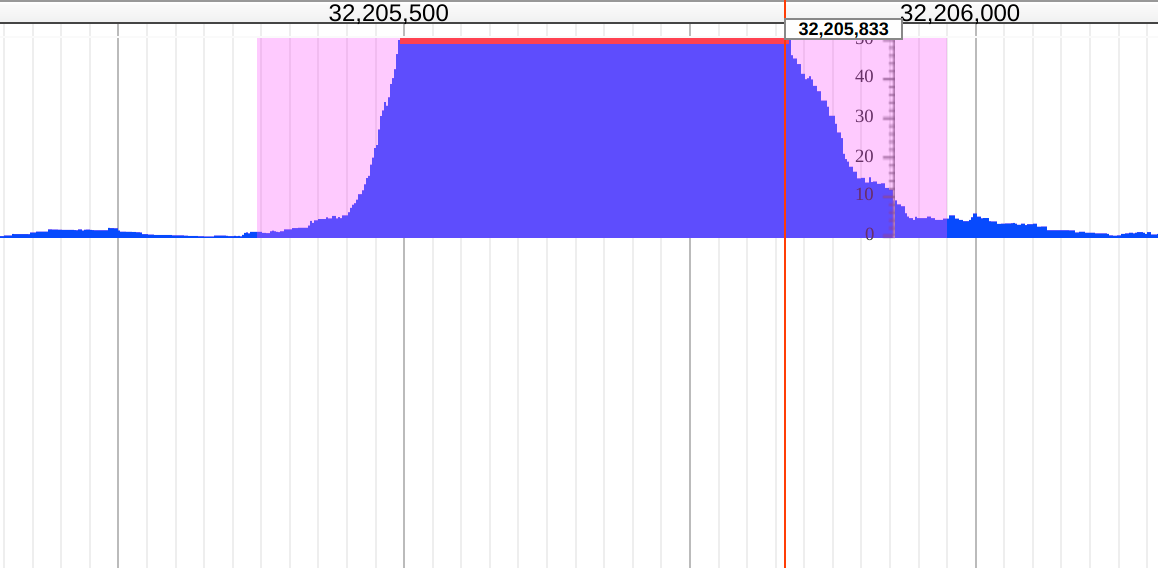
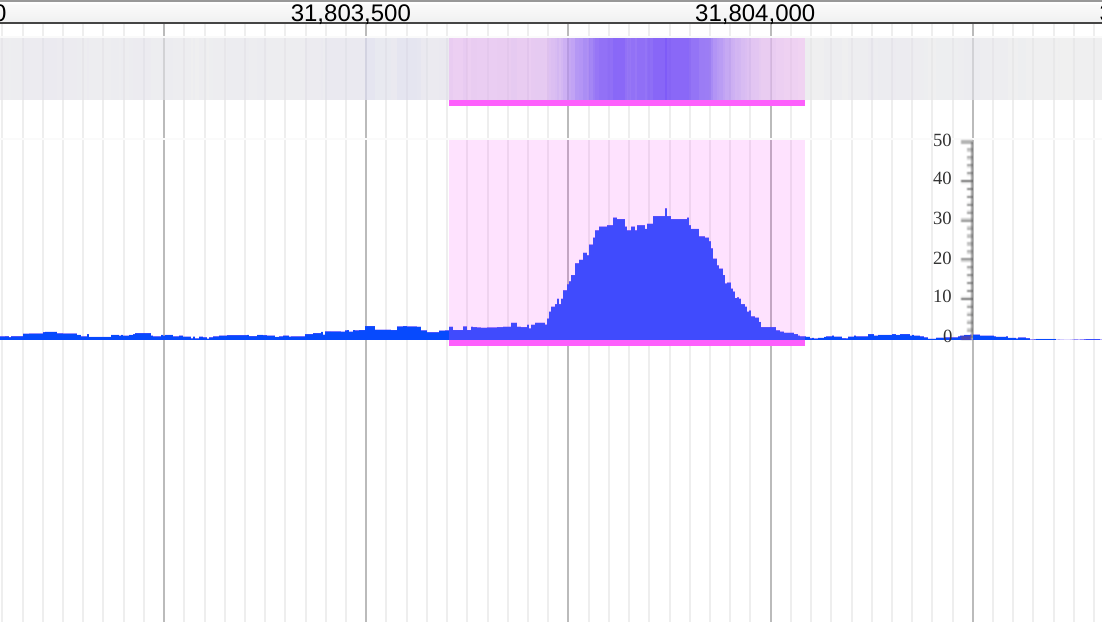
Add indicator

Changed region(s): [[0.0, 0.0, 1.0, 0.5687], [0.0309, 0.0898, 0.0617, 0.1496], [0.9873, 0.5387, 1.0, 0.5687]]

diff --git a/js/View/Track/Base.js b/js/View/Track/Base.js
@@ -24,6 +24,8 @@ function (
                 dojo.clone( this.inherited(arguments) ),
                 {
                     highlightColor: '#f0f2',
+                    indicatorColor: '#f0f',
+                    indicatorHeight: 3,
                     broaden: 0
                 }
             );
@@ -32,8 +34,8 @@ function (
         _postDraw: function( scale, leftBase, rightBase, block, canvas, features, featureRects, dataScale ) {
             this.highlightStore.getFeatures({ref:this.browser.refSeq.name, start: leftBase, end: rightBase},
                 feature => {
-                    const s = block.bpToX(feature.get('start')-this.config.broaden)
-                    const e = block.bpToX(feature.get('end')+this.config.broaden)
+                    const s = block.bpToX(Math.max(feature.get('start')-this.config.broaden,block.startBase))
+                    const e = block.bpToX(Math.min(feature.get('end')+this.config.broaden,block.endBase))
                     const ret = dojo.create('div',
                         {
                             style: {
@@ -41,10 +43,19 @@ function (
                                 width: `${e-s}px`,
                                 height: canvas.style.height,
                                 top: 0,
-                                display: 'inline',
-                                zIndex: 10000,
                                 position: 'absolute',
                                 backgroundColor: this.config.highlightColor
+                            }
+                        }, block.domNode)
+                    const indicator = dojo.create('div',
+                        {
+                            style: {
+                                left: `${s}px`,
+                                width: `${e-s}px`,
+                                height: `${this.config.indicatorHeight}px`,
+                                top: canvas.style.height,
+                                position: 'absolute',
+                                backgroundColor: this.config.indicatorColor
                             }
                         }, block.domNode)
                 },

diff --git a/README.md b/README.md
@@ -19,8 +19,11 @@ Example for trackList.json
 The configs specific to this plugin are
 
 * bigbed - object that initializes a bigbed store
-* highlightColor - color probably inluding some alpha transparency, can be in any color format
+* highlightColor - color probably inluding some alpha transparency, can be in any color format, default #f0fb
+* indicatorColor - color probably for indicator drawn below, can be in any color format, default #f0f
+* indicatorHeight - a height for the indicator, defalt 3px
 * broaden - number to broaden the drawn peaks by in bp
+* type - this plugin has WiggleHighlighter/View/Track/XYPlot and WiggleHighlighter/View/Track/Density track types
 
 ## Note
 
